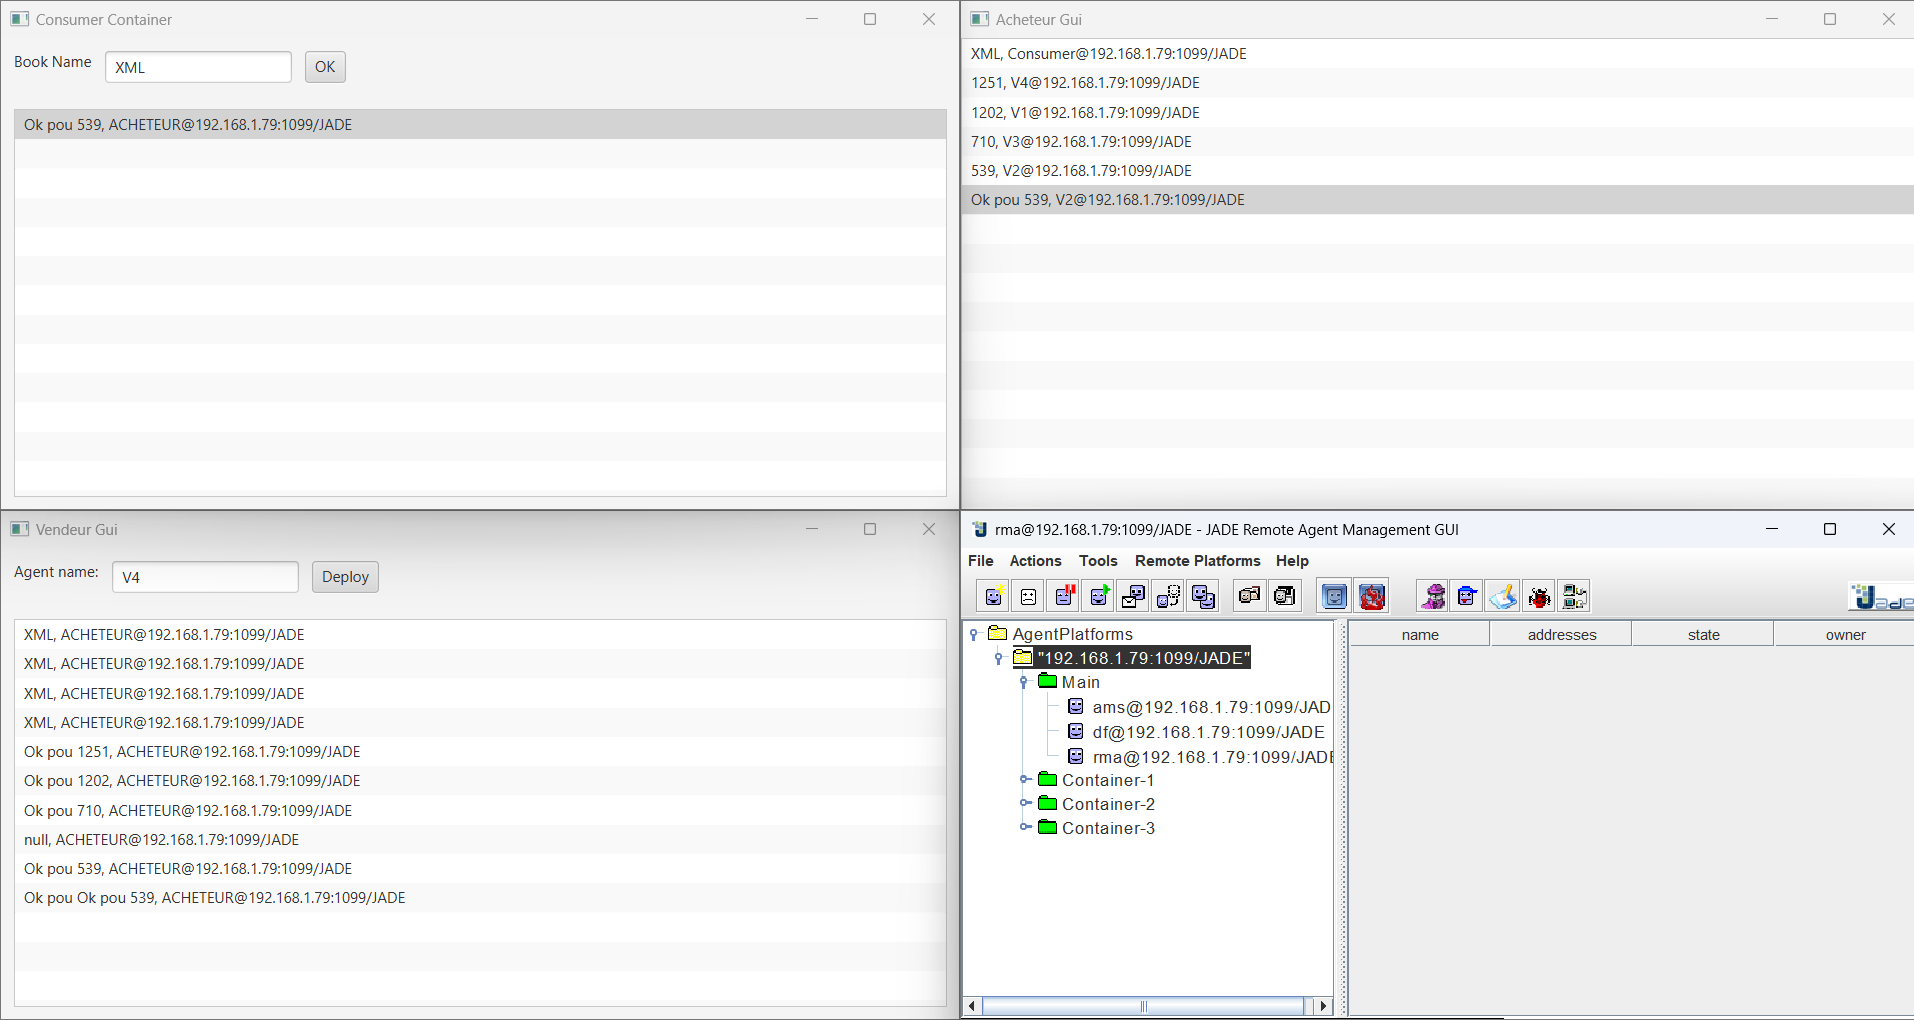
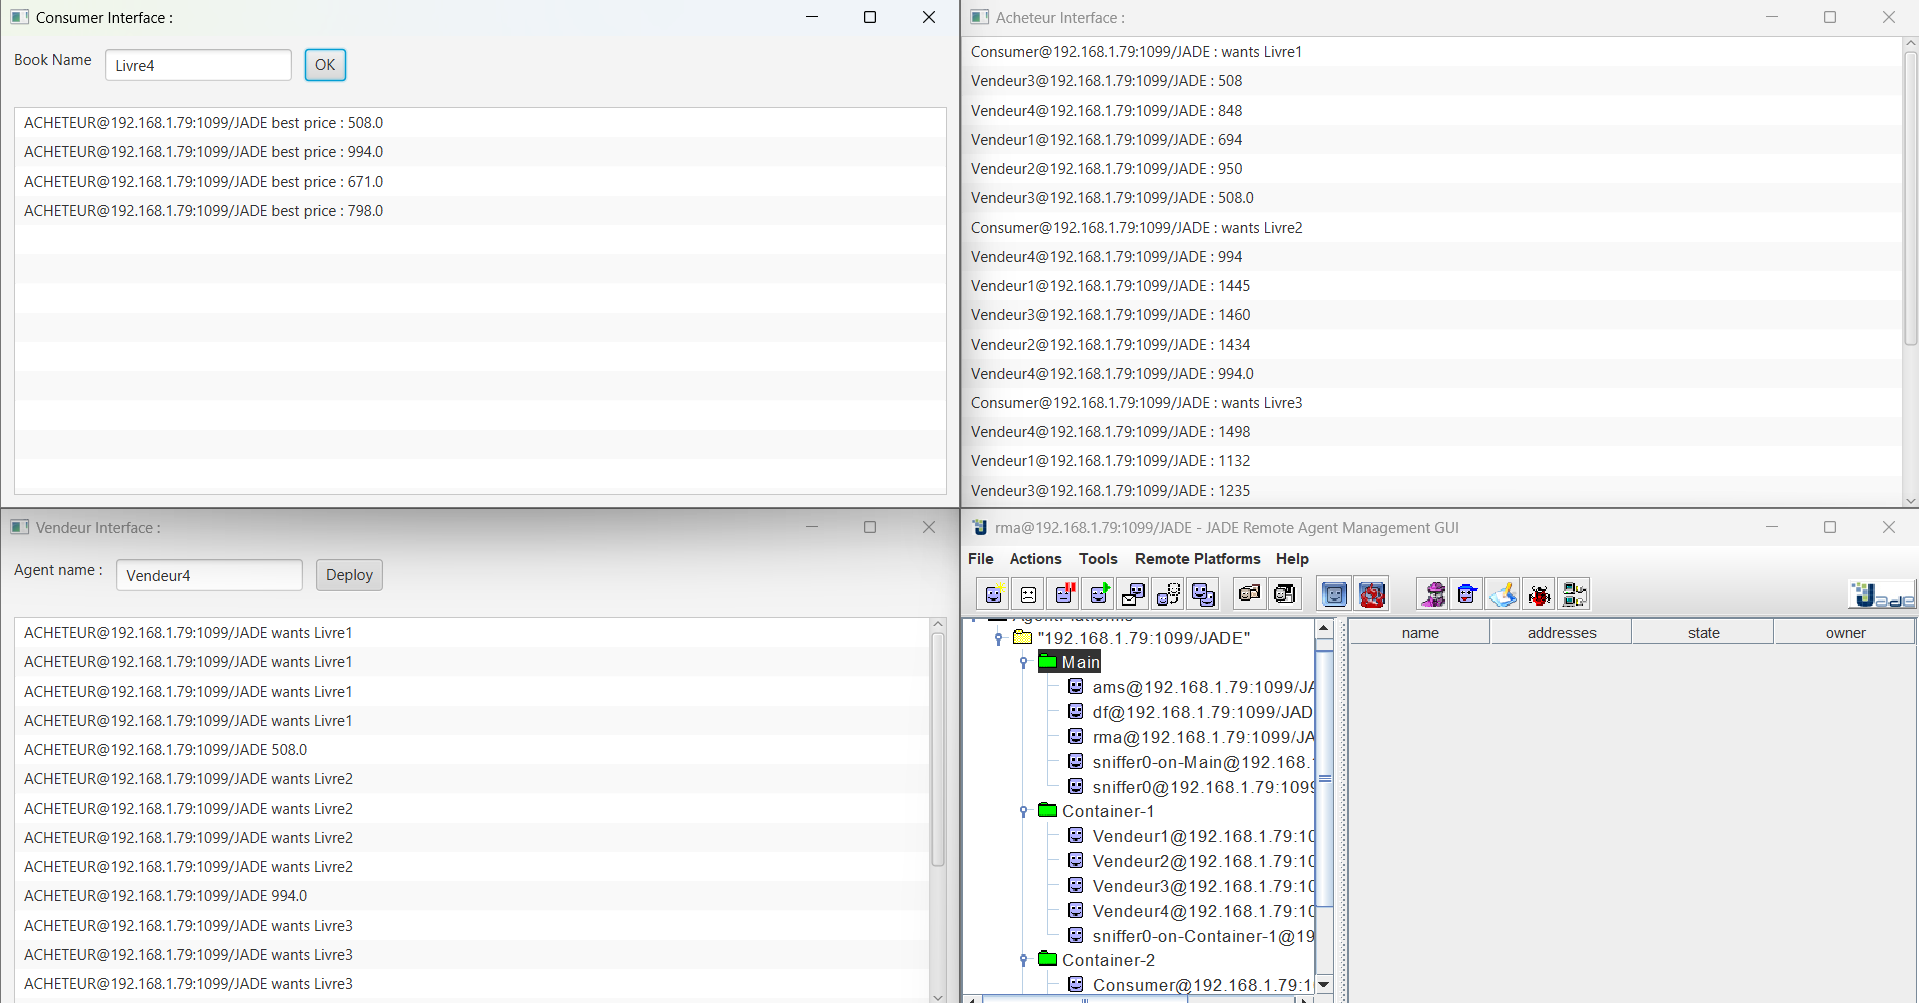
pus

diff --git a/src/main/java/com/iguider/agents/ConsumerAgent.java b/src/main/java/com/iguider/agents/ConsumerAgent.java
@@ -21,70 +21,17 @@ public class ConsumerAgent extends GuiAgent {
     protected void setup() {
         String bookName=null;
         if(this.getArguments().length==1){
-            // la relation bidirectionnelle entre l'agent et l-interface graphique
+            // la relation bidirectionnelle entre l'agent et l'interface graphique
             consumerContainer=(ConsumerContainer)getArguments()[0];//refrence vers l'interface => protected ConsumerAgent consumerAgent;
             consumerContainer.consumerAgent=this; //this => consumerAgent
         }
         System.out.println("Initialisation de l'agent " + this.getAID().getName());
         System.out.println("I'm trying to buy the book " + bookName);
-        //gerer plusieurs tache en parallele
+
+        //gérer plusieurs tâches en parallèle
         ParallelBehaviour parallelBehaviour = new ParallelBehaviour();
         //affecter les comportements
         addBehaviour(parallelBehaviour);
-
-        /*addBehaviour(new Behaviour() {
-            private int counter=0;
-            @Override
-            public void action() {
-                System.out.println("----------------");
-                System.out.println("Step " + counter);
-                System.out.println("----------------");
-                ++counter;
-            }
-
-            @Override
-            public boolean done() {
-                return (counter==10);
-            }
-        });*/
-
-        parallelBehaviour.addSubBehaviour(new OneShotBehaviour() {
-            @Override
-            public void action() {
-                System.out.println("One Shot Behaviour");
-            }
-        });
-
-        /*addBehaviour(new CyclicBehaviour() {
-            private int counter=0;
-            @Override
-            public void action() {
-                System.out.println("Counter =>"+counter);
-                ++counter;
-            }
-        });*/
-
-        /*addBehaviour(new TickerBehaviour(this,1000) {
-            @Override
-            protected void onTick() {
-                System.out.println("Tic");
-                System.out.println(myAgent.getAID().getLocalName());
-            }
-        });*/
-
-        SimpleDateFormat dateFormat = new SimpleDateFormat("dd/MM/yyyy:HH:mm");
-        Date date= null;
-        try {
-            date= dateFormat.parse("24/05/2021:10:59");
-        }catch (ParseException e){
-            e.printStackTrace();
-        }
-        parallelBehaviour.addSubBehaviour(new WakerBehaviour(this,date) {
-            @Override
-            protected void onWake() {
-                System.out.println("Waker Behaviour ....");
-            }
-        });
 
         parallelBehaviour.addSubBehaviour(new CyclicBehaviour() {
             @Override
@@ -98,12 +45,8 @@ public class ConsumerAgent extends GuiAgent {
                 if(aclMessage!=null){
                     System.out.println("Sender : " + aclMessage.getSender().getName());
                     System.out.println("Content : " + aclMessage.getContent());
-                    //System.out.println("SpeechAct : "+ ACLMessage.getPerformative(aclMessage.ACCEPT_PROPOSAL));
+                    System.out.println("SpeechAct : "+ ACLMessage.getPerformative(aclMessage.ACCEPT_PROPOSAL));
 
-                    /*ACLMessage reply = new ACLMessage(ACLMessage.CONFIRM);
-                    reply.addReceiver(aclMessage.getSender());
-                    reply.setContent("Price=900");
-                    send(reply);*/
                     switch (aclMessage.getPerformative()){
                         case ACLMessage.CONFIRM:
                             consumerContainer.logMessage(aclMessage);
@@ -111,10 +54,10 @@ public class ConsumerAgent extends GuiAgent {
                         default:
                             break;
                     }
+
                 }else {
                     System.out.println("Bolc......");
-                    // qu'il ya un message qui arrive qui concerne l'agent est tout simplement il reçoit une notification
-                    // ce qui permet donc de débloquer cette méthode bloc et automatiquement il reviet la methode d'action
+                    // si un message qui arrive qui concerne l'agent est tout simplement il reçoit une notification ,ce qui permet donc de débloquer cette méthode bloc et automatiquement il revient la méthode d'action
                     block();
                 }
             }
@@ -147,13 +90,11 @@ public class ConsumerAgent extends GuiAgent {
 
     @Override
     public void onGuiEvent(GuiEvent evt) {
-        // execute lorque un événement se produit dans l'interface graphique
+        // exécuter lorsqu'un événement se produit dans l'interface graphique
         if(evt.getType()==1){
             String bookName = (String)evt.getParameter(0);
-            //System.out.printf("Agent => " + getAID().getName() +"=>"+bookName);
             ACLMessage aclMessage=new ACLMessage(ACLMessage.REQUEST);
-            aclMessage.setContent(bookName);
-            //aclMessage.addReceiver(new AID("BookBuyerAgent",AID.ISLOCALNAME));
+            aclMessage.setContent("wants " + bookName);
             aclMessage.addReceiver(new AID("ACHETEUR",AID.ISLOCALNAME));
             send(aclMessage);
         }

diff --git a/src/main/java/com/iguider/agents/AcheteurAgent.java b/src/main/java/com/iguider/agents/AcheteurAgent.java
@@ -86,9 +86,10 @@ public class AcheteurAgent extends GuiAgent {
                         case ACLMessage.PROPOSE :
                             ++counter;
                             replies.add(aclMessage);
+                            double mini=0;
                             if(counter==vendeurs.length){
                                 ACLMessage meilleurOffre = replies.get(0);
-                                double mini=Double.parseDouble(meilleurOffre.getContent());
+                                mini=Double.parseDouble(meilleurOffre.getContent());
 
                                 for(ACLMessage offre:replies){
                                     double price=Double.parseDouble(offre.getContent());
@@ -98,8 +99,11 @@ public class AcheteurAgent extends GuiAgent {
                                     }
                                 }
                                 ACLMessage aclMessageAccept = meilleurOffre.createReply();
-                                aclMessage.setPerformative(ACLMessage.ACCEPT_PROPOSAL);
+                                aclMessageAccept.setPerformative(ACLMessage.ACCEPT_PROPOSAL);
+                                aclMessageAccept.setContent(String.valueOf(mini));
                                 send(aclMessageAccept);
+                                counter=0;
+                                replies.clear();
                             }
                             break;
                         case ACLMessage.AGREE :
@@ -114,18 +118,8 @@ public class AcheteurAgent extends GuiAgent {
                             break;
                     }
 
-                    String livre = aclMessage.getContent();
                     // log le message dans l'interface graphique
                     gui.logMessage(aclMessage);
-
-                    ACLMessage replay = aclMessage.createReply(); // je vais répondre aux memes sender
-                    replay.setContent("Ok pou "+aclMessage.getContent());
-                    send(replay);
-
-                    /*ACLMessage aclMessage3 = new ACLMessage(ACLMessage.CFP);//call for proposal
-                    aclMessage3.setContent(livre);
-                    aclMessage3.addReceiver(new AID("VENDEUR", AID.ISLOCALNAME));
-                    send(aclMessage3);*/
                 }
                 else{
                     block();

diff --git a/src/main/java/com/iguider/containers/VendeurGui.java b/src/main/java/com/iguider/containers/VendeurGui.java
@@ -36,13 +36,13 @@ public class VendeurGui extends Application {
     @Override
     public void start(Stage primaryStage) throws Exception {
         startContainer();
-        primaryStage.setTitle("Vendeur :");
+        primaryStage.setTitle("Vendeur Interface :");
 
         HBox hBox = new HBox();
         hBox.setPadding(new Insets(10));
         hBox.setSpacing(10);
 
-        Label label = new Label("Agent name:");
+        Label label = new Label("Agent name :");
         TextField textFieldAgentName = new TextField();
         Button buttonDeploy = new Button("Deploy");
         hBox.getChildren().addAll(label,textFieldAgentName,buttonDeploy);
@@ -65,7 +65,7 @@ public class VendeurGui extends Application {
             //deploy l'agent
             try {
                 String name=textFieldAgentName.getText();
-                //BookBuyerAgent.class.getName() => "com.iguider.agents.buyer.BookBuyerAgent"
+                //BookBuyerAgent.class.getName() => "com.iguider.agents.buyer.VendeurGui"
                 AgentController agentController= agentContainer.createNewAgent(
                         name,
                         VendeurAgent.class.getName(),
@@ -80,14 +80,14 @@ public class VendeurGui extends Application {
     private void startContainer() throws Exception {
         Runtime runtime = Runtime.instance();
         ProfileImpl profile = new ProfileImpl();
-        profile.setParameter(Profile.MAIN_HOST,"localhost");// ou se trouve le main container
+        profile.setParameter(Profile.MAIN_HOST,"localhost");// où se trouve le main container
         agentContainer = runtime.createAgentContainer(profile);
     }
 
     public void logMessage(ACLMessage aclMessage){
         Platform.runLater(()->{
-            //l'agent à chaque fois qu'ils veux log quelque chouse dans l'interface il n'a qu'à faire appel à cette méthode
-            observableListData.add(aclMessage.getContent() + ", " + aclMessage.getSender().getName());
+            //l'agent à chaque fois qu'ils veut log quelque chose dans l'interface il n'a qu'à faire appel à cette méthode
+            observableListData.add(aclMessage.getSender().getName() + " " + aclMessage.getContent());
         });
     }
 }

diff --git a/src/main/java/com/iguider/containers/AcheteurGui.java b/src/main/java/com/iguider/containers/AcheteurGui.java
@@ -26,7 +26,7 @@ public class AcheteurGui extends Application {
     @Override
     public void start(Stage primaryStage) throws Exception {
         startContainer();
-        primaryStage.setTitle("Acheteur :");
+        primaryStage.setTitle("Acheteur Interface :");
         BorderPane borderPane = new BorderPane();
         VBox vBox = new VBox();
         observableListData = FXCollections.observableArrayList();
@@ -52,8 +52,8 @@ public class AcheteurGui extends Application {
 
     public void logMessage(ACLMessage aclMessage){
         Platform.runLater(()->{
-            //l'agent à chaque fois qu'ils veux log quelque chouse dans l'interface il n'a qu'à faire appel à cette méthode
-            observableListData.add(aclMessage.getContent() + ", " + aclMessage.getSender().getName());
+            //l'agent à chaque fois qu'ils veut log quelque chose dans l'interface il n'a qu'à faire appel à cette méthode
+            observableListData.add(aclMessage.getSender().getName() + " : " + aclMessage.getContent());
         });
     }
 

diff --git a/src/main/java/com/iguider/containers/ConsumerContainer.java b/src/main/java/com/iguider/containers/ConsumerContainer.java
@@ -37,7 +37,7 @@ public class ConsumerContainer extends Application {
     @Override
     public void start(Stage primaryStage) throws Exception {
         startContainer();
-        primaryStage.setTitle("Consumer :");
+        primaryStage.setTitle("Consumer Interface :");
         BorderPane borderPane = new BorderPane();
 
         HBox hBox1 =new HBox();
@@ -80,8 +80,8 @@ public class ConsumerContainer extends Application {
 
     public void logMessage(ACLMessage aclMessage){
         Platform.runLater(()->{
-            //l'agent à chaque fois qu'ils veux log quelque chouse dans l'interface il n'a qu'à faire appel à cette méthode
-            observableListData.add(aclMessage.getContent() + ": " + aclMessage.getSender().getName());
+            //l'agent à chaque fois qu'ils veut log quelque chose dans l'interface il n'a qu'à faire appel à cette méthode
+            observableListData.add(aclMessage.getSender().getName()+ " best price : " + aclMessage.getContent());
         });
     }
 
